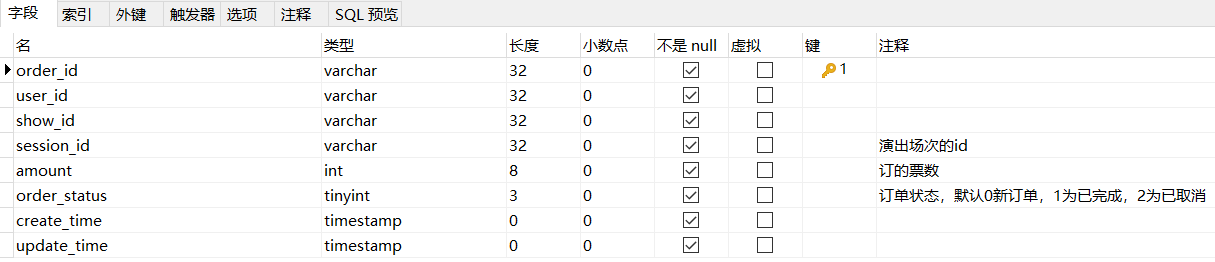
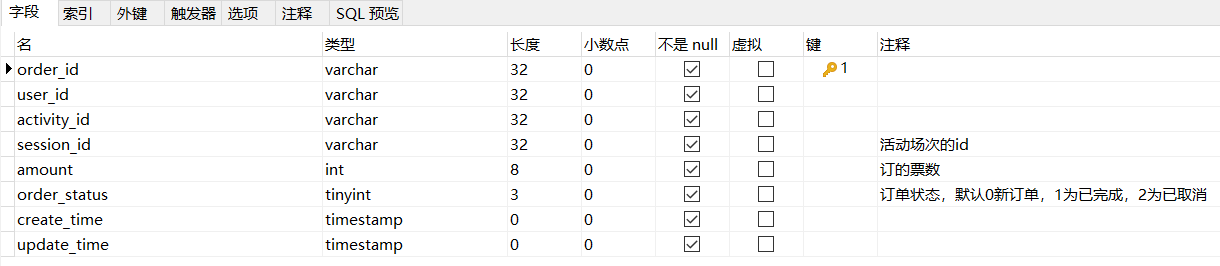
修改数据库结构

diff --git a/开发文档-v1.0.md b/开发文档-v1.0.md
@@ -22,7 +22,7 @@
 booking
 ### 用户表user
 ![avatar](/image/1.png)
-### 演出表show
+### 演出表activity
 ![avatar](/image/2.png)
 ### 订单表order
 ![avatar](/image/3.png)
